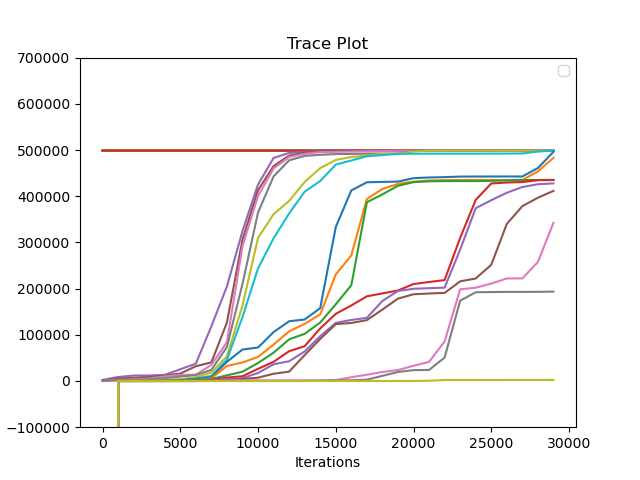
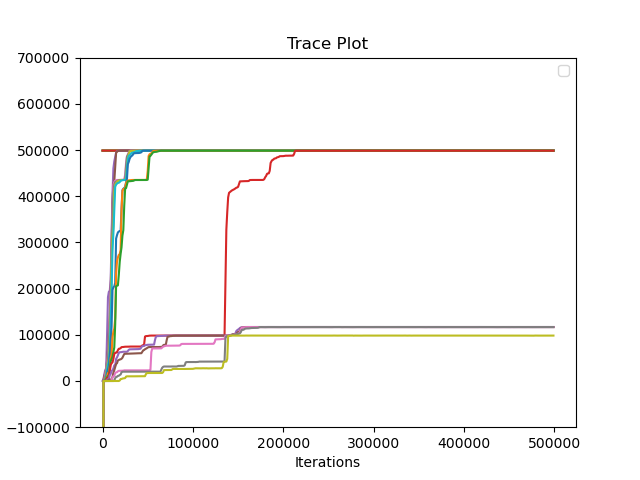
prep for blackmesa run

diff --git a/digman_galwaves/mcdigman1-galwaves-f588fb2cf04c/run_gal_search.py b/digman_galwaves/mcdigman1-galwaves-f588fb2cf04c/run_gal_search.py
@@ -34,11 +34,11 @@ if __name__ == '__main__':
     t0 = perf_counter()
 
     # starting variables
-    n_chain = 20                 # number of total chains for parallel tempering
+    n_chain = 80                 # number of total chains for parallel tempering
     n_cold = 2                         # number of T=1 chains for parallel tempering
-    n_burnin = 100000                   # number of iterations to discard as burn in
+    n_burnin = 500000                   # number of iterations to discard as burn in
     block_size = 1000                  # number of iterations per block when advancing the chain state
-    store_size = 500000                 # number of samples to store total
+    store_size = 1500000                 # number of samples to store total
     N_blocks = store_size//block_size  # number of blocks the sampler must iterate through
 
     de_size = 5000                     # number of samples to store in the differential evolution buffer
@@ -148,4 +148,4 @@ if do_corner_plot:
     for ax in figure.get_axes():
         ax.tick_params(which='both', direction='in', bottom=True, top=True, left=True, right=True, labelsize=6)
     #plt.show
-    plt.show()
+    plt.savefig("Mc Mt param.png")

diff --git a/digman_galwaves/mcdigman1-galwaves-f588fb2cf04c/graph_helper.py b/digman_galwaves/mcdigman1-galwaves-f588fb2cf04c/graph_helper.py
@@ -43,7 +43,7 @@ def plotChains(data):
     plt.ylim(-1e5, 7e5)
     plt.xlabel("Iterations")
     plt.ylabel("LogL")
-    plt.savefig("chains fig")
+    plt.savefig("chains 80 chains fig.png")
 
 def betadelta_m1m2_check(beta, delta, freq0, tobs, mc, mt):
     params_true = np.array([mc / MSOLAR, mt / MSOLAR])      
